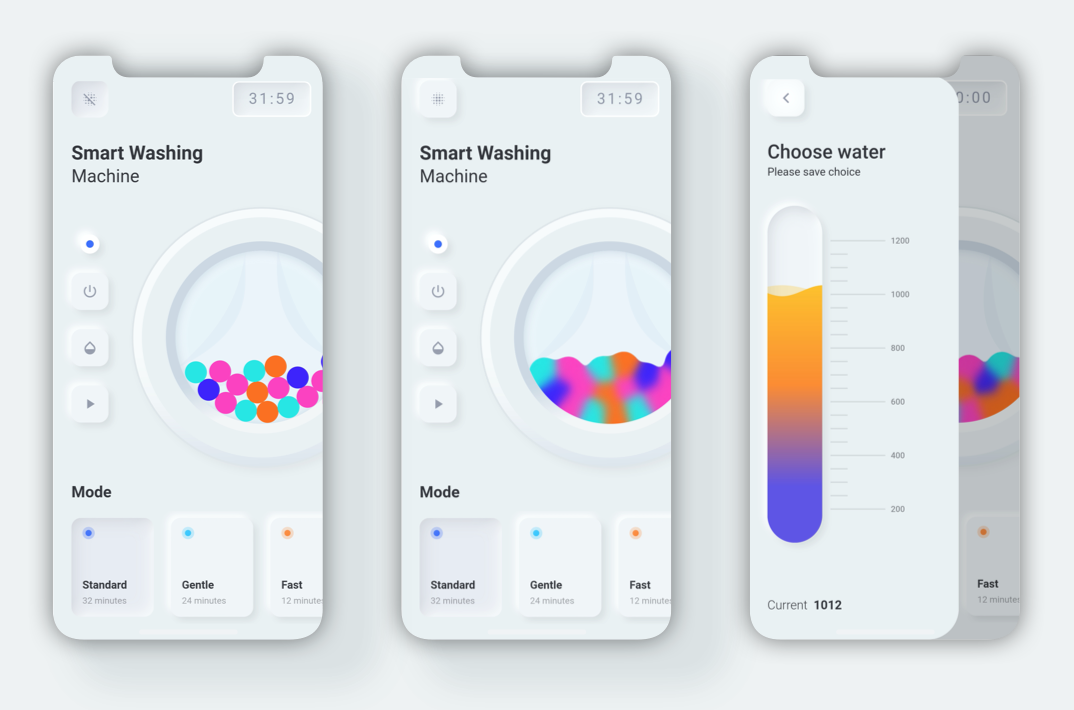
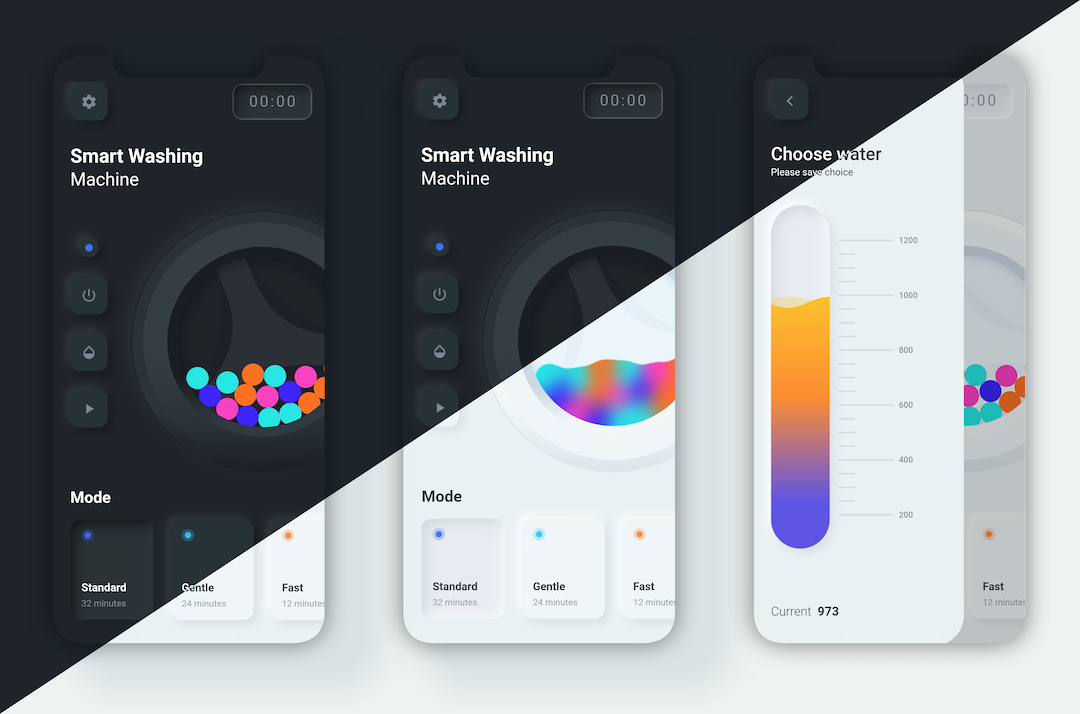
Updated readme

diff --git a/README.md b/README.md
@@ -10,20 +10,19 @@ Many thanks to **Dimest**, for allowing me to write an application based on his 
 
 ## App in action
 
-![Washing machine GIF 1](https://github.com/pawlik92/flutter_whirlpool/raw/master/doc/img/flutter_whirlpool1.gif)
-![Washing machine GIF 2](https://github.com/pawlik92/flutter_whirlpool/raw/master/doc/img/flutter_whirlpool2.gif)
-![Washing machine GIF 3](https://github.com/pawlik92/flutter_whirlpool/raw/master/doc/img/flutter_whirlpool3.gif)
-![Washing machine GIF 4](https://github.com/pawlik92/flutter_whirlpool/raw/master/doc/img/flutter_whirlpool4.gif)
-
+![Washing machine GIF 1](https://github.com/pawlik92/flutter_whirlpool/raw/master/doc/img/1.gif)
+![Washing machine GIF 2](https://github.com/pawlik92/flutter_whirlpool/raw/master/doc/img/2.gif)
+![Washing machine GIF 3](https://github.com/pawlik92/flutter_whirlpool/raw/master/doc/img/3.gif)
+![Washing machine GIF 4](https://github.com/pawlik92/flutter_whirlpool/raw/master/doc/img/4.gif)
 
 ## Dev
 
 To build application, you need to install **Flutter (1.17+)**. You can find help here: https://flutter.dev/docs/get-started/install
 
-The balls simulation is conducted using the Box2D physic engine.
+The balls simulation is conducted using the **Box2D** physic engine.
 
 ## Tips
 
-While the application is running, you can turn off "metaball effect" by clicking the button in the upper left corner.
+In settings, you can switch to dark mode and turn off "metaball effect".
 
-![How to disable metaball](https://github.com/pawlik92/flutter_whirlpool/raw/master/doc/img/disable_metaball.png)
+![How to disable metaball](https://github.com/pawlik92/flutter_whirlpool/raw/master/doc/img/settings.png)
